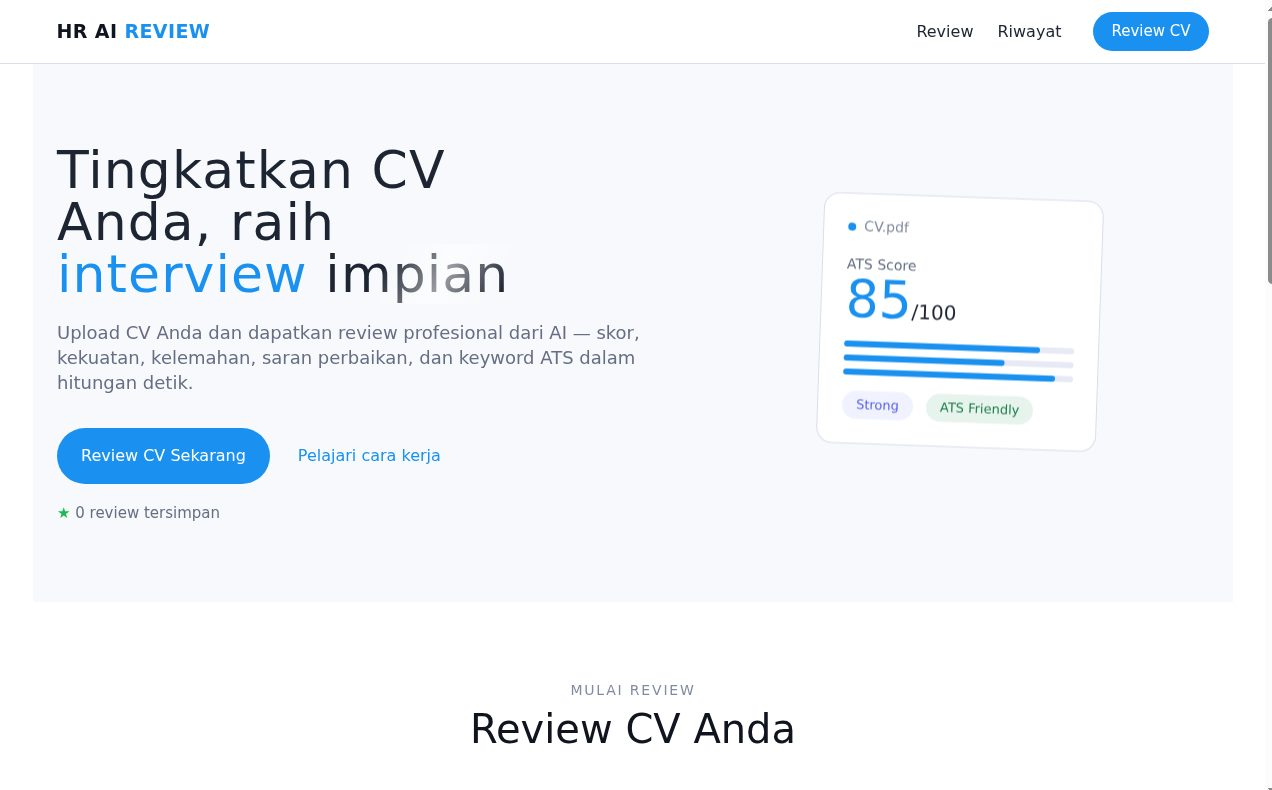
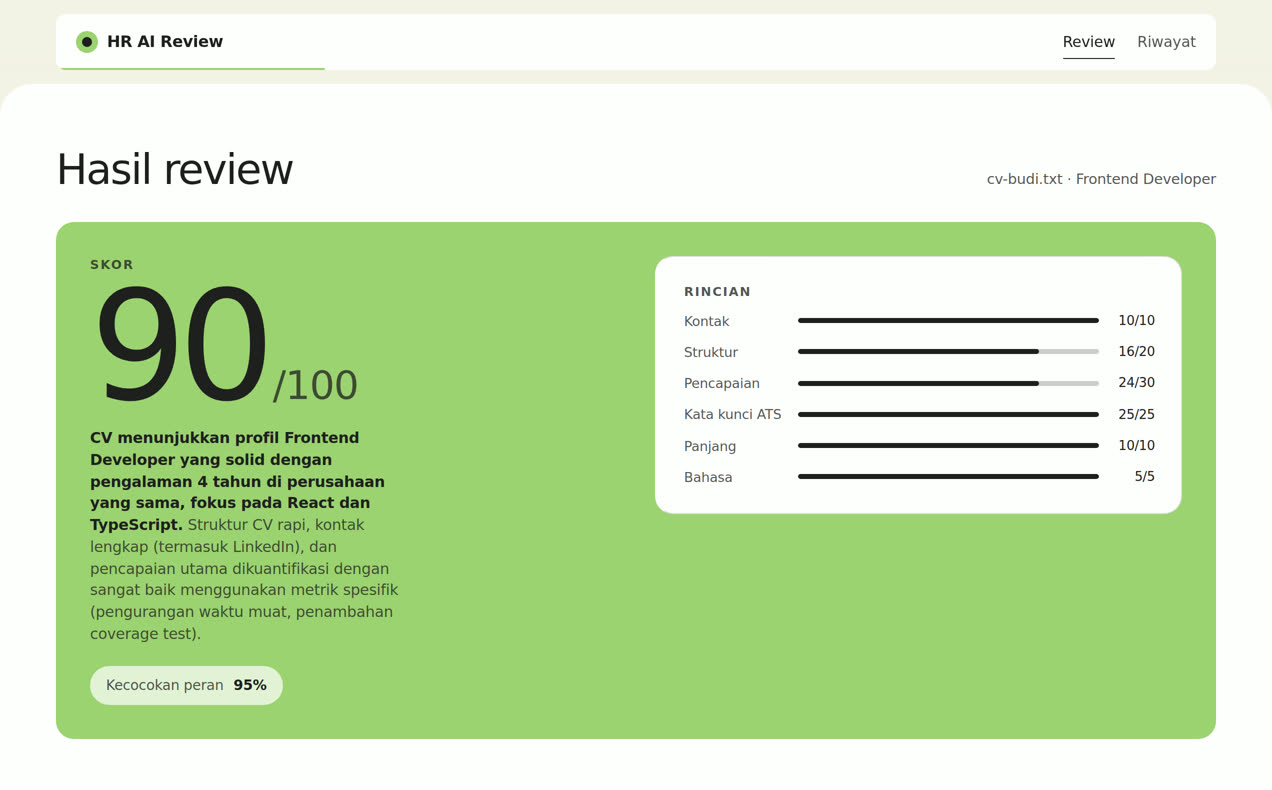
chore(karya): perbarui tangkapan layar hr-ai-review setelah rombak UI
Kartu hr-ai-review masih memakai tangkapan desain lama (biru, ring skor).
Ganti dengan tangkapan produksi terbaru: palet krem-hijau, skor 90/100
sebagai tipografi besar, dan panel rincian. Alt text ikut disesuaikan
karena 'kartu ATS Score' sudah tidak ada di UI.

97/97 tes lolos, termasuk penjaga ukuran <150 KB (berkas 91 KB).

diff --git a/src/app/page.tsx b/src/app/page.tsx
@@ -13,8 +13,8 @@ const projects = [
   {
     name: "hr-ai-review",
     shot: "/output/hr-ai-review.jpg",
-    alt: "Tampilan hr-ai-review: hero dan kartu ATS Score",
-    desc: "Unggah CV dalam PDF, keluar analisis ala reviewer HR plus skor kecocokan. Backend Apps Script, muka depannya di Vercel.",
+    alt: "Tampilan hr-ai-review: kartu skor 90/100 dengan rincian penilaian",
+    desc: "Unggah CV dalam PDF, keluar skor dan rincian penilaian ala reviewer HR. Backend Apps Script, muka depannya di Vercel.",
     stack: ["JavaScript", "Apps Script", "Vercel"],
     live: "https://hr-ai-review-nine.vercel.app",
     href: "https://github.com/khamimzarr/hr-ai-review",
